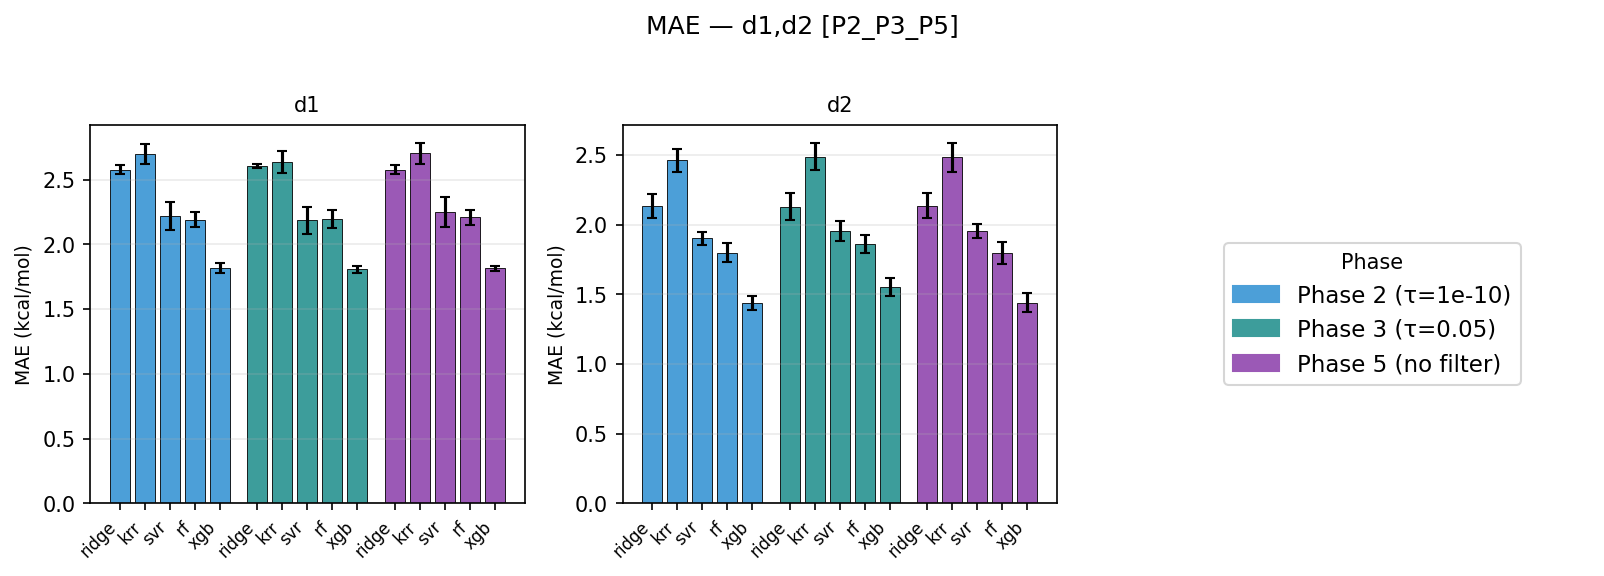
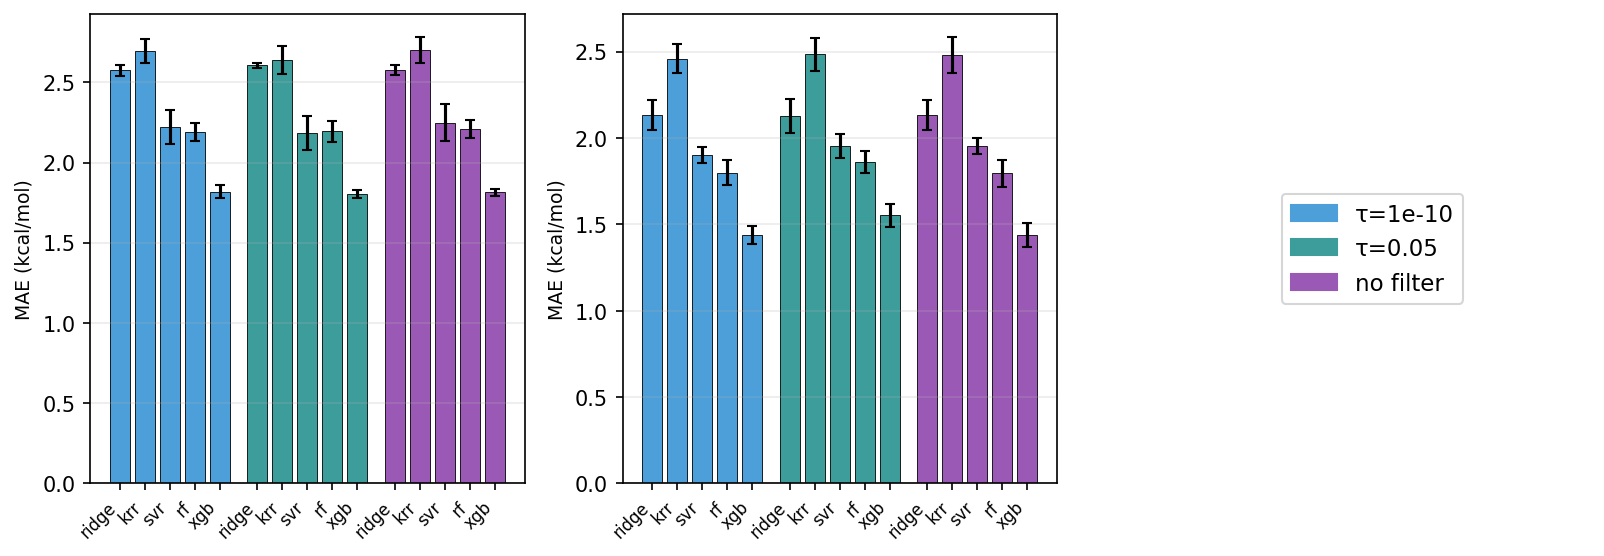
comparison_v3: strip titles + shorten legend labels
- Remove per-subplot titles (canonical channel names) and figure suptitle
- Legend labels: drop 'Phase N (...)' wrapper, keep only paren contents
  (e.g., 'Phase 2 (τ=1e-10)' → 'τ=1e-10')
- Remove legend title 'Phase'

All 9 comparison_v3/*.png regenerated in place.

diff --git a/analysis/bath1480_probe/experiments/scripts/08_aggregate_v3.py b/analysis/bath1480_probe/experiments/scripts/08_aggregate_v3.py
@@ -21,6 +21,7 @@ from pathlib import Path
 import json
 import os
 import pickle
+import re
 import numpy as np
 import pandas as pd
 import matplotlib
@@ -216,8 +217,6 @@ def figure_grouped_bars(records, canonicals, metric_col, err_col, title, ylabel,
                           edgecolor="black", linewidth=0.4)
             target_ax.set_xticks(bar_positions)
             target_ax.set_xticklabels(bar_labels, rotation=45, ha="right", fontsize=8)
-            title_txt = canon + (" ⚠ oracle" if oracle else "")
-            target_ax.set_title(title_txt, fontsize=10)
             target_ax.set_ylabel(ylabel, fontsize=9)
             target_ax.grid(axis="y", alpha=0.25)
             if ymin is not None: target_ax.set_ylim(bottom=ymin)
@@ -226,12 +225,12 @@ def figure_grouped_bars(records, canonicals, metric_col, err_col, title, ylabel,
         legend_ax = axes_flat[len(canonicals)]
         legend_ax.axis("off")
         handles = [plt.Rectangle((0,0), 1, 1, color=PHASE_COLORS[p]) for p in phases]
-        legend_ax.legend(handles, phases, loc="center", frameon=True, fontsize=11, title="Phase")
+        legend_labels = [re.sub(r"^Phase \d+ \((.*)\)$", r"\1", p) for p in phases]
+        legend_ax.legend(handles, legend_labels, loc="center", frameon=True, fontsize=11)
         for k in range(len(canonicals)+1, len(axes_flat)):
             axes_flat[k].axis("off")
 
-    fig.suptitle(title, fontsize=12, y=0.995)
-    plt.tight_layout(rect=[0,0,1,0.98])
+    plt.tight_layout()
     plt.savefig(out_path, dpi=150, bbox_inches="tight")
     plt.close(fig)
     print(f"  wrote {out_path.name}")
